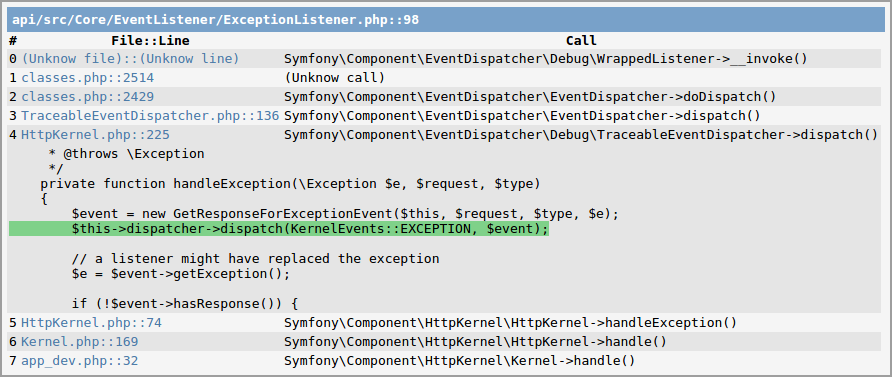
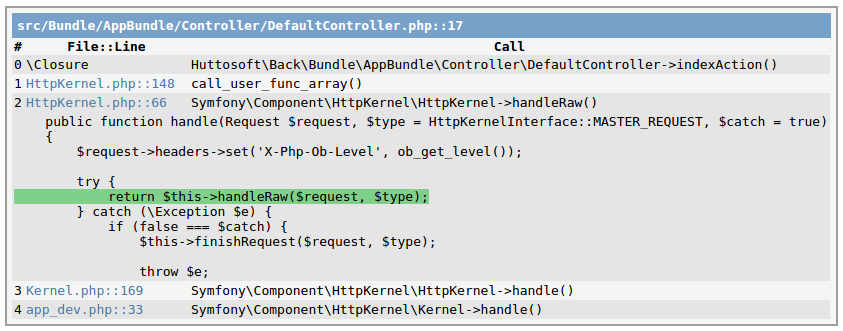
Fix file not found and eval()'d code in file path

Changed region(s): [[0.0, 0.0, 1.0, 1.0]]

diff --git a/DumpBacktrace.php b/DumpBacktrace.php
@@ -189,33 +189,52 @@ class DumpBacktrace
      */
     protected static function getBacktraceDump(array $backtrace, $index, $previewPrefix)
     {
-        if (isset($backtrace['file'])) {
-            $file = basename($backtrace['file']);
-            $filePath = $backtrace['file'];
-            $fileFound = true;
-        } else {
-            $filePath = null;
-            $fileFound = false;
-        }
+        $filePath = null;
+        $line = null;
+        $previewId = $previewPrefix . '_' . $index;
 
-        if (isset($backtrace['line'])) {
-            $line = $backtrace['line'];
-            $lineFound = true;
+        if (isset($backtrace['file'])) {
+            if (file_exists($backtrace['file'])) {
+                $filePath = $backtrace['file'];
+                $fileFound = true;
+
+                if (isset($backtrace['line'])) {
+                    $line = $backtrace['line'];
+                    $lineFound = true;
+                } else {
+                    $lineFound = false;
+                }
+            } elseif (substr($backtrace['file'], -16) === ' : eval()\'d code') {
+                $fileAndLine = substr($backtrace['file'], 0, -16);
+                $filePath = substr($fileAndLine, 0, strrpos($fileAndLine, '('));
+                if (file_exists($filePath)) {
+                    $line = substr($fileAndLine, strrpos($fileAndLine, '(') + 1, -1);
+                    $fileFound = true;
+                    $lineFound = true;
+                } else {
+                    $fileFound = false;
+                    $lineFound = false;
+                }
+            } else {
+                $fileFound = false;
+                $lineFound = false;
+            }
         } else {
+            $fileFound = false;
             $lineFound = false;
         }
 
         if ($fileFound === false && $lineFound === false) {
             $fileLineHtml = '\Closure';
+            $codePreview = null;
         } else {
-            $previewId = $previewPrefix . '_' . $index;
             $codePreview = static::getCodePreview($filePath, $line);
             $fileLineHtml = '
                 <a
                     title="' . static::getFilePath($filePath) . '"
                     onclick="steevanb_dev_showCodePreview(\'' . $previewId . '\')"
                 >
-                    ' . $file . '::' . $line . '
+                    ' . basename($filePath) . '::' . $line . '
                 </a>
             ';
         }

diff --git a/README.md b/README.md
@@ -1,8 +1,8 @@
-[![version](https://img.shields.io/badge/version-1.1.0-green.svg)](https://github.com/steevanb/php-backtrace/tree/1.1.0)
+[![version](https://img.shields.io/badge/version-1.1.1-green.svg)](https://github.com/steevanb/php-backtrace/tree/1.1.1)
 [![php](https://img.shields.io/badge/php->=5.4-blue.svg)](http://php.net)
-![Lines](https://img.shields.io/badge/code lines-680-green.svg)
+![Lines](https://img.shields.io/badge/code lines-711-green.svg)
 ![Total Downloads](https://poser.pugx.org/steevanb/php-backtrace/downloads)
-[![SensionLabsInsight](https://img.shields.io/badge/SensionLabsInsight-platinum-brightgreen.svg)](https://insight.sensiolabs.com/projects/2b6dd6a0-ef48-4b5b-ba13-e825e0841be3/analyses/5)
+[![SensionLabsInsight](https://img.shields.io/badge/SensionLabsInsight-platinum-brightgreen.svg)](https://insight.sensiolabs.com/projects/2b6dd6a0-ef48-4b5b-ba13-e825e0841be3/analyses/7)
 [![Scrutinizer](https://scrutinizer-ci.com/g/steevanb/php-backtrace/badges/quality-score.png?b=master)](https://scrutinizer-ci.com/g/steevanb/php-backtrace/)
 
 php-backtrace

diff --git a/changelog.md b/changelog.md
@@ -1,3 +1,15 @@
+1.1.1 (2016-10-12)
+------------------
+
+- Fix file not found errors
+- Fix eval()'d code in file path
+- Update backtrace.png
+
+1.1.0 (2016-10-10)
+------------------
+
+- Add eDump() and getDump()
+
 1.0.1 (2016-08-16)
 ------------------
 
